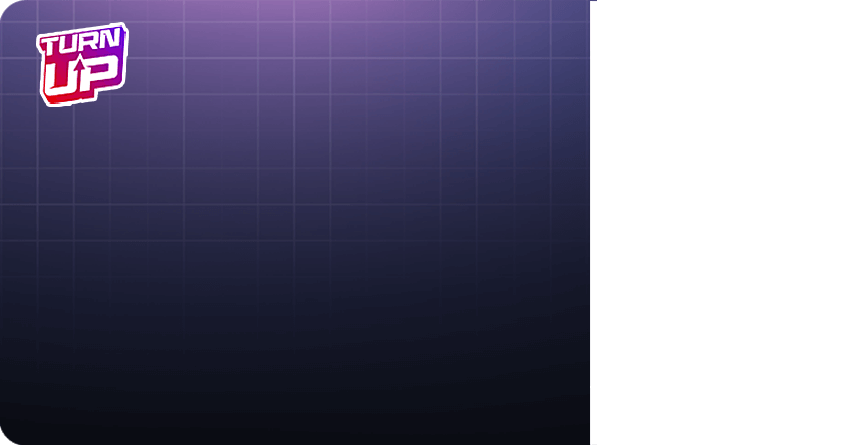
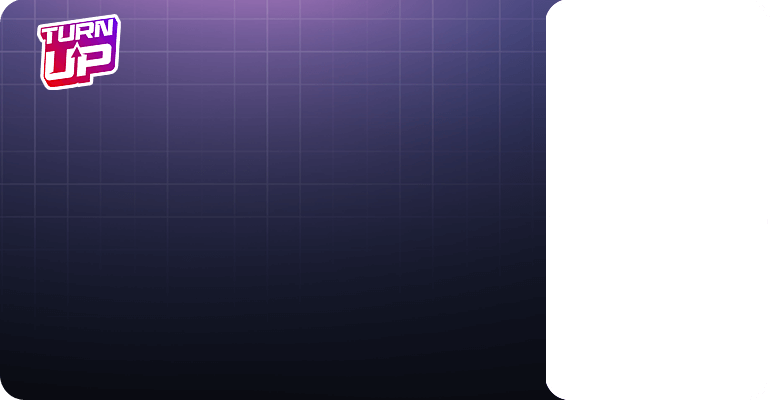
update images

Changed region(s): [[0.6857, 0.0, 0.7481, 1.0], [0.0312, 0.03, 0.1558, 0.24], [0.0, 0.96, 0.0312, 1.0]]

diff --git a/src/Canvas/CanvasMix.js b/src/Canvas/CanvasMix.js
@@ -118,10 +118,10 @@ export const Canvas = (props) => {
                 context.clearRect(0, 0, width, height);
 
                 const imgElements = [
-                    { uri: require('../assets/images/resultImg/missionEnd1_1.png'), x: 0.705, y: 0, cw: 0.295, ch: 1 },
+                    { uri: require('../assets/images/resultImg/missionEnd1_1-s.png'), x: 0.705, y: 0, cw: 0.295, ch: 1 },
                     { uri: require('../assets/images/twittercard/card_bg.png'), x: 0, y: 0, cw: 1, ch: 1},
                     //{ uri: 'img/logo.png', x: 0.02, y: 0.01, sw: 0.2, sh: 0.2 },
-                    { text: 'Oops! Cryptos are poisoned! <br> Run away Now! <br> You CAN JOIN TURNUP to EARN more cryptos!', color: "#FFFFFFE0", font: "sans-serif", x:0.05, y: 0.45, cw:0.6, ch: 0.5 },
+                    { text: 'Oops! Cryptos are poisoned! <br> Run away Now! <br> You CAN JOIN TURNUP to EARN more cryptos!', color: "#FFFFFFE0", font: "sans-serif", x:0.05, y: 0.4, cw:0.6, ch: 0.5 },
                     //{ text: "Score: " + Math.floor(Math.random() * 100000), color: "rgba(0,255,255,1)", font: "36px Roboto", x:0.9, y: 0.68, align:'end' },
                     { qr : true, uri:'https://turnup.so/@tibbers', x: 0.51, y: 0.05, cw: 0.3 * height / width, ch: 0.3},
                 ];
